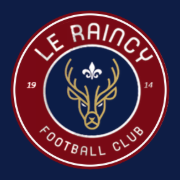
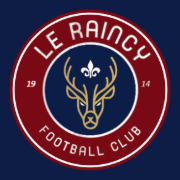
3.27 : blason recentré et bien rond, briefings téléchargeables et importables sur un autre appareil

Changed region(s): [[0.0278, 0.0278, 0.9722, 0.9722], [0.4444, 0.3333, 0.5833, 0.4444]]

diff --git a/js/analyse.js b/js/analyse.js
@@ -201,9 +201,82 @@ const Analyse = (() => {
   }
   function briefingsDialog() {
     const list = briefings();
-    const close = modal({ title: 'Briefings vidéo', noFocus: true, body: list.length ? `<div class="list">${list.map(b => `<div class="list-item bf-item"><span class="li-main"><b>${esc(b.name)}</b><span class="muted">${b.items.length} séquence${b.items.length > 1 ? 's' : ''}</span></span>
-        <button class="btn primary" data-bopen="${b.id}">${I.play}<span>Ouvrir</span></button></div>`).join('')}</div>` : '<p class="muted">Pas encore de briefing. Dans une analyse, touche « Ajouter à un briefing » sous une séquence.</p>',
-      onOpen: r => $$('[data-bopen]', r).forEach(x => x.onclick = () => { close(); location.hash = '#/briefing/' + x.dataset.bopen; }) });
+    const close = modal({ title: 'Briefings vidéo', noFocus: true, body: `${list.length ? `<div class="list">${list.map(b => `<div class="list-item bf-item"><span class="li-main"><b>${esc(b.name)}</b><span class="muted">${b.items.length} séquence${b.items.length > 1 ? 's' : ''}</span></span>
+        <button class="icon-btn" data-bdl="${b.id}" aria-label="Télécharger ${esc(b.name)}" title="Télécharger">${I.download}</button><button class="btn primary" data-bopen="${b.id}">${I.play}<span>Ouvrir</span></button></div>`).join('')}</div>` : '<p class="muted">Pas encore de briefing. Dans une analyse, touche « Ajouter à un briefing » sous une séquence.</p>'}
+        <button class="btn soft wide" data-bimport style="margin-top:12px">${I.upload}<span>Importer un briefing (fichier .raincy-briefing)</span></button>
+        <p class="muted small">Un briefing téléchargé depuis un autre téléphone, une tablette ou un ordinateur se rouvre ici, avec ses vidéos et ses séquences.</p>`,
+      onOpen: r => {
+        $$('[data-bopen]', r).forEach(x => x.onclick = () => { close(); location.hash = '#/briefing/' + x.dataset.bopen; });
+        $$('[data-bdl]', r).forEach(x => x.onclick = () => { const b = briefings().find(y => y.id === x.dataset.bdl); close(); if (b) setTimeout(() => downloadDialog(b), 60); });
+        $('[data-bimport]', r).onclick = () => { close(); pickBriefingFile(); };
+      } });
+  }
+
+  /* ---------- a briefing on another device: one file with the briefing, its sequences and its videos ----------
+     « RAINCYBRIEF1 », the size of the description, the description (JSON), then the videos one after the other.
+     The file is shared like any other (Fichiers, Drive, WhatsApp, AirDrop, clé USB, ordinateur) and imported with « Importer un briefing ». */
+  const MAGIC = 'RAINCYBRIEF1\n';
+  const mo = n => n > 1048576 ? Math.round(n / 1048576) + ' Mo' : Math.max(1, Math.round(n / 1024)) + ' Ko';
+  async function mediaOf(b) {
+    const ids = [...new Set(b.items.map(it => it.mediaId))], out = [];
+    for (const id of ids) { const r = await Media.get(id); if (r) out.push(r); }
+    return out;
+  }
+  async function downloadDialog(b) {
+    const recs = await mediaOf(b), size = recs.reduce((a, r) => a + (r.blob ? r.blob.size : 0), 0), nYT = recs.filter(isYT).length;
+    modal({ title: `Télécharger « ${b.name} »`, noFocus: true, body: `<div class="src-list">
+      <button class="src-btn" data-dl="file">${I.layers}<span><b>Briefing à rouvrir dans l'appli</b><span class="muted small">Un fichier (${mo(size)}) avec les vidéos, les séquences, les commentaires et les joueurs. Enregistre-le dans Fichiers, Google Drive, sur une clé USB ou un ordinateur, puis rouvre-le sur un autre appareil avec « Briefings → Importer un briefing ».${nYT ? ' Les vidéos YouTube restent des liens : il faudra internet pour les voir.' : ''}</span></span></button>
+      <button class="src-btn" data-dl="video">${I.video}<span><b>Vidéo à regarder partout</b><span class="muted small">Un seul fichier vidéo avec les titres et les commentaires, lisible sur n'importe quel téléphone, ordinateur ou télé. Il ne se modifie plus.${nYT ? ' Les séquences YouTube n\'y seront pas.' : ''}</span></span></button></div>`,
+      onOpen: (r, close) => $$('[data-dl]', r).forEach(x => x.onclick = async () => {
+        close();
+        if (x.dataset.dl === 'video') { const items = await resolve(b); return items.length ? exportVideo(items, b.name) : toast('Aucune séquence à mettre dans la vidéo', 'err'); }
+        packBriefing(b, recs);
+      }),
+      actions: [{ label: 'Fermer' }] });
+  }
+  async function packBriefing(b, recs) {
+    const withBlob = recs.filter(r => r.blob);
+    const head = JSON.stringify({ v: 1, name: b.name, at: Date.now(), club: S().club.name || '', items: b.items,
+      media: recs.map(r => ({ id: r.id, ref: r.ref, kind: r.kind, name: r.name, mime: r.mime, url: r.url, host: r.host, thumb: r.thumb, clips: r.clips || [], matchId: r.matchId || null, createdAt: r.createdAt, size: r.blob ? r.blob.size : 0 })) });
+    const headBytes = new TextEncoder().encode(head);
+    const file = new Blob([MAGIC, String(headBytes.length).padStart(12, '0') + '\n', headBytes, ...withBlob.map(r => r.blob)], { type: 'application/octet-stream' });
+    const res = await Exporter.deliver(file, `${b.name.replace(/[^\wÀ-ÿ -]+/g, ' ').replace(/\s+/g, ' ').trim() || 'briefing'}.raincy-briefing`);
+    if (res === 'downloaded') toast('Briefing enregistré dans Téléchargements');
+  }
+  function pickBriefingFile() {
+    const inp = document.createElement('input'); inp.type = 'file';
+    inp.onchange = () => { const f = inp.files && inp.files[0]; if (f) importBriefing(f); };
+    inp.click();
+  }
+  async function importBriefing(file) {
+    const task = UI.bgTask(`Import du briefing « ${file.name} »…`);
+    try {
+      const top = await file.slice(0, MAGIC.length + 13).text();
+      if (!top.startsWith(MAGIC)) throw new Error('Ce fichier n\'est pas un briefing de l\'appli (fichier .raincy-briefing)');
+      const len = parseInt(top.slice(MAGIC.length, MAGIC.length + 12), 10), start = MAGIC.length + 13;
+      const head = JSON.parse(await file.slice(start, start + len).text());
+      let off = start + len, n = 0;
+      for (const m of head.media) {
+        task.step(`Import des vidéos du briefing : ${++n} sur ${head.media.length}`, n / head.media.length);
+        const blob = m.size ? file.slice(off, off + m.size, m.mime || 'video/mp4') : null; off += m.size || 0;
+        const have = await Media.get(m.id);
+        if (have) {
+          // already on this device: only the missing sequences are added
+          const ids = new Set((have.clips || []).map(c => c.id));
+          have.clips = [...(have.clips || []), ...(m.clips || []).filter(c => !ids.has(c.id))];
+          await Media.put(have); continue;
+        }
+        const rec = { id: m.id, ref: m.ref || 'lib', kind: m.kind, name: m.name, mime: m.mime, thumb: m.thumb, clips: m.clips || [], matchId: m.matchId, createdAt: m.createdAt || Date.now() };
+        if (m.kind === 'link') Object.assign(rec, { url: m.url, host: m.host });
+        else if (blob) rec.blob = new Blob([blob], { type: m.mime || 'video/mp4' });
+        await Media.put(rec);
+      }
+      const all = briefings(), name = all.some(x => x.name === head.name) ? head.name + ' (importé)' : head.name;
+      const b = { id: Store.uid(), name, items: head.items || [], at: Date.now() };
+      all.unshift(b); saveBriefings(all);
+      task.done(); toast(`Briefing « ${name} » importé`);
+      location.hash = '#/briefing/' + b.id;
+    } catch (e) { task.done(); toast(e.message && !/JSON/.test(e.message) ? e.message : 'Ce fichier de briefing est abîmé ou incomplet', 'err'); }
   }
   async function briefingPage(root, id) {
     freeUrl();
@@ -211,7 +284,7 @@ const Analyse = (() => {
     if (!b) { root.innerHTML = `<div class="empty"><p>Briefing introuvable sur cet appareil.</p><a class="btn" href="#/bibliotheque">${I.back}<span>Bibliothèque</span></a></div>`; return; }
     const items = await resolve(b);
     root.innerHTML = `<header class="page-head"><div><h1>🎬 ${esc(b.name)}</h1><p class="sub">Briefing vidéo · ${items.length} séquence${items.length > 1 ? 's' : ''} · ${mmss(items.reduce((a, x) => a + x.clip.end - x.clip.start, 0))}</p></div>
-      <div class="head-actions"><button class="btn" data-b="back">${I.back}<span>Retour</span></button><button class="btn" data-b="export" ${items.length ? '' : 'disabled'}>${I.download}<span>Exporter en vidéo</span></button><button class="btn primary" data-b="present" ${items.length ? '' : 'disabled'}>${I.play}<span>Présenter</span></button></div></header>
+      <div class="head-actions"><button class="btn" data-b="back">${I.back}<span>Retour</span></button><button class="btn" data-b="export" ${items.length ? '' : 'disabled'}>${I.download}<span>Télécharger</span></button><button class="btn primary" data-b="present" ${items.length ? '' : 'disabled'}>${I.play}<span>Présenter</span></button></div></header>
       <label class="fld"><span>Nom</span><input id="bfName" value="${esc(b.name)}" maxlength="60"></label>
       <div class="list">${items.map(({ rec, clip }, i) => { const t = tagOf(clip.tag), ps = (clip.players || []).map(pid => Store.get('players', pid)).filter(Boolean);
         return `<div class="list-item bf-row" style="--c:${t[3]}"><span class="bf-n">${i + 1}</span><span class="li-main"><b>${t[1]} ${esc(t[2])}${clip.note ? ' · ' + esc(clip.note) : ''}</b>
@@ -225,7 +298,7 @@ const Analyse = (() => {
       const x = e.target.closest('button'); if (!x) return;
       if (x.dataset.b === 'back') return history.length > 1 ? history.back() : (location.hash = '#/bibliotheque');
       if (x.dataset.b === 'present') return present(items, b.name);
-      if (x.dataset.b === 'export') return exportVideo(items, b.name);
+      if (x.dataset.b === 'export') return downloadDialog(b);
       if (x.dataset.b === 'delete') { if (await confirmBox(`Supprimer le briefing « ${b.name} » ? Les séquences restent dans leurs vidéos.`)) { saveBriefings(briefings().filter(y => y.id !== b.id)); location.hash = '#/bibliotheque'; } return; }
       if (x.dataset.mv) { const [i, d] = x.dataset.mv.split('|').map(Number); [b.items[i], b.items[i + d]] = [b.items[i + d], b.items[i]]; persist(); return briefingPage(root, id); }
       if (x.dataset.rm) { b.items.splice(+x.dataset.rm, 1); persist(); return briefingPage(root, id); }
@@ -360,5 +433,5 @@ const Analyse = (() => {
     return `<section class="card"><div class="row-head"><h2>${I.video}Briefings vidéo</h2><button class="btn soft" data-anbrief>${I.layers}<span>Mes briefings (${list.length})</span></button></div>
       <p class="muted small">Ouvre une vidéo de match puis « Analyser » : marque les actions (but, occasion, perte de balle…), puis rassemble les séquences dans un briefing à présenter ou à envoyer en vidéo.</p></section>`;
   }
-  return { page, briefingPage, briefingsDialog, libraryCard, TAGS, isYT, leave: freeUrl };
+  return { page, briefingPage, briefingsDialog, libraryCard, importBriefing, TAGS, isYT, leave: freeUrl };
 })();

diff --git a/js/help.js b/js/help.js
@@ -2,7 +2,7 @@
    Errors are caught and kept so a coach can attach them to a report. */
 const Help = (() => {
   const { esc, $, $$, toast, modal } = UI;
-  const VERSION = '3.26';
+  const VERSION = '3.27';
   const TOUR_KEY = 'raincy-tour-seen', ERR_KEY = 'raincy-errors';
 
   /* ---------- error log ---------- */
@@ -81,7 +81,7 @@ const Help = (() => {
     president: ['Tableau de bord', ['Les chiffres de la saison pour tout le club, et le détail par catégorie (licenciés, encadrants, présence, résultats).', '« À surveiller » liste ce qui demande une action : catégorie sans éducateur, match sans score, joueurs sans téléphone.', 'Sauvegardes : le serveur copie les données chaque lundi (8 semaines gardées). Tu peux aussi télécharger une copie à garder en lieu sûr, jamais sur GitHub.']],
     licences: ['Licences et cotisations', ['Touche une case pour changer son état : licence, certificat ou questionnaire santé, cotisation, droit à l\'image. Le montant payé s\'écrit à droite.', '« Seulement ceux qui ne sont pas en règle » : la liste de ceux à relancer.', 'Les coachs voient ⚠ dans les convocations pour un joueur dont la licence est en attente ou le certificat à fournir. Les cotisations restent entre responsables.', '« Excel » télécharge le tableau.']],
     analyse: ['Analyse vidéo', ['Lance la vidéo et touche une action (But, Occasion, Perte de balle…) au moment où elle arrive : une séquence est créée, de quelques secondes avant à quelques secondes après (réglable).', 'Sous chaque séquence : ajuste le début et la fin sur l\'image affichée, écris un commentaire, choisis les joueurs concernés (choisis d\'abord le match analysé).', '« Dessiner sur l\'image » ouvre l\'image dans le tableau tactique pour ajouter flèches et joueurs.', '« Ajouter à un briefing » rassemble des séquences de plusieurs vidéos. Les vidéos et les briefings restent sur cet appareil.']],
-    briefing: ['Briefing vidéo', ['« Présenter » passe les séquences en plein écran, avec le titre et le commentaire de chacune (flèches du clavier pour avancer).', '« Exporter en vidéo » crée un seul fichier vidéo à envoyer sur WhatsApp : garde l\'appli ouverte pendant la création, qui dure le temps de la vidéo.', 'Change l\'ordre avec les flèches, retire une séquence avec la croix.']],
+    briefing: ['Briefing vidéo', ['« Présenter » passe les séquences en plein écran, avec le titre et le commentaire de chacune (flèches du clavier pour avancer).', '« Télécharger » → « Vidéo à regarder partout » crée un seul fichier vidéo à envoyer sur WhatsApp : garde l\'appli ouverte pendant la création, qui dure le temps de la vidéo.', '« Télécharger » → « Briefing à rouvrir dans l\'appli » enregistre le briefing avec ses vidéos dans un fichier (Fichiers, Drive, clé USB, ordinateur). Sur l\'autre appareil : Bibliothèque → Mes briefings → « Importer un briefing ».', 'Change l\'ordre avec les flèches, retire une séquence avec la croix.']],
     vestiaires: ['Vestiaires', ['Une colonne par vestiaire (Vestiaire 1, 2, Karaté 1, Karaté 2) pour le jour choisi. Touche une case vide pour attribuer un vestiaire à une catégorie ou à l\'équipe adverse (🆚).', 'Matchs à domicile : « Attribuer » donne un vestiaire à notre équipe et un à l\'adversaire, du rendez-vous jusqu\'après les douches. « Tous les matchs du jour » le fait pour tous.', '« Chaque semaine » garde le même vestiaire pour les entraînements d\'une catégorie jusqu\'à la fin de la saison.', 'Un vestiaire ne peut pas être donné deux fois en même temps. Touche un vestiaire occupé pour le libérer.']],
     encadrement: ['Qui encadre ?', ['Tous les matchs et séances de la semaine, avec leurs encadrants. ⚠ Personne : il manque un encadrant.', '« J\'y serai » t\'ajoute comme encadrant, « Je n\'y serai pas » te retire.', '« Déclarer une absence » : tes vacances ou indisponibilités, visibles par les autres dirigeants. Un responsable peut en déclarer pour n\'importe qui.']],
     entrainements: ['Séances', ['« Séances types du club » : des séances prêtes pour toutes les catégories. « Utiliser » la copie pour ta catégorie et ta date. Pour en créer une : dans une séance réussie, « Enregistrer comme séance type ».', 'Une fiche AssistCoachAI (PDF) : Bibliothèque → Importer → ouvre le PDF → Créer une séance. Chaque exercice est repris avec sa durée, ses consignes et son matériel.', '« Nouvel entraînement » : un thème, une date, une équipe.', 'Tu peux aussi créer une séance d\'un coup à partir d\'un PDF : Bibliothèque → ouvre le PDF → Créer une séance.']],

diff --git a/index.html b/index.html
@@ -13,7 +13,7 @@
 <link rel="manifest" href="manifest.webmanifest">
 <link rel="icon" href="icons/crest.png">
 <link rel="apple-touch-icon" href="icons/icon-180.png">
-<link rel="stylesheet" href="app.css?v=66">
+<link rel="stylesheet" href="app.css?v=67">
 </head>
 <body>
 <div class="shell">
@@ -30,37 +30,37 @@
 <div id="toast" class="toast" role="status" aria-live="polite"></div>
 
 <script src="https://cdn.jsdelivr.net/npm/jspdf@2.5.2/dist/jspdf.umd.min.js" crossorigin="anonymous"></script>
-<script src="js/config.js?v=66"></script>
-<script src="js/icons.js?v=66"></script>
-<script src="js/board.js?v=66"></script>
-<script src="js/store.js?v=66"></script>
-<script src="js/ui.js?v=66"></script>
-<script src="js/clubs.js?v=66"></script>
-<script src="js/exporter.js?v=66"></script>
-<script src="js/auth.js?v=66"></script>
-<script src="js/media.js?v=66"></script>
-<script src="js/ratings.js?v=66"></script>
-<script src="js/library.js?v=66"></script>
-<script src="js/importer.js?v=66"></script>
-<script src="js/help.js?v=66"></script>
-<script src="js/cloud.js?v=66"></script>
-<script src="js/sync.js?v=66"></script>
-<script src="js/planning.js?v=66"></script>
-<script src="js/results.js?v=66"></script>
-<script src="js/messages.js?v=66"></script>
-<script src="js/people.js?v=66"></script>
-<script src="js/templates.js?v=66"></script>
-<script src="js/editor.js?v=66"></script>
-<script src="js/clublife.js?v=66"></script>
-<script src="js/weather.js?v=66"></script>
-<script src="js/notify.js?v=66"></script>
-<script src="js/supporters.js?v=66"></script>
-<script src="js/vestiaires.js?v=66"></script>
-<script src="js/analyse.js?v=66"></script>
-<script src="js/clubadmin.js?v=66"></script>
-<script src="js/parents.js?v=66"></script>
-<script src="js/president.js?v=66"></script>
-<script src="js/views.js?v=66"></script>
-<script src="js/app.js?v=66"></script>
+<script src="js/config.js?v=67"></script>
+<script src="js/icons.js?v=67"></script>
+<script src="js/board.js?v=67"></script>
+<script src="js/store.js?v=67"></script>
+<script src="js/ui.js?v=67"></script>
+<script src="js/clubs.js?v=67"></script>
+<script src="js/exporter.js?v=67"></script>
+<script src="js/auth.js?v=67"></script>
+<script src="js/media.js?v=67"></script>
+<script src="js/ratings.js?v=67"></script>
+<script src="js/library.js?v=67"></script>
+<script src="js/importer.js?v=67"></script>
+<script src="js/help.js?v=67"></script>
+<script src="js/cloud.js?v=67"></script>
+<script src="js/sync.js?v=67"></script>
+<script src="js/planning.js?v=67"></script>
+<script src="js/results.js?v=67"></script>
+<script src="js/messages.js?v=67"></script>
+<script src="js/people.js?v=67"></script>
+<script src="js/templates.js?v=67"></script>
+<script src="js/editor.js?v=67"></script>
+<script src="js/clublife.js?v=67"></script>
+<script src="js/weather.js?v=67"></script>
+<script src="js/notify.js?v=67"></script>
+<script src="js/supporters.js?v=67"></script>
+<script src="js/vestiaires.js?v=67"></script>
+<script src="js/analyse.js?v=67"></script>
+<script src="js/clubadmin.js?v=67"></script>
+<script src="js/parents.js?v=67"></script>
+<script src="js/president.js?v=67"></script>
+<script src="js/views.js?v=67"></script>
+<script src="js/app.js?v=67"></script>
 </body>
 </html>

diff --git a/parents.html b/parents.html
@@ -80,7 +80,7 @@ button, select { font: inherit; }
 <header class="top"><div class="top-in"><img src="icons/crest.png" alt=""><div><p id="club">FA Le Raincy · Espace parents</p><h1 id="team">Chargement…</h1></div></div></header>
 <main id="page"><p class="empty">Chargement des informations de l'équipe…</p></main>
 <div id="toast" class="toast" role="status" aria-live="polite"></div>
-<script src="js/config.js?v=66"></script>
-<script src="js/parents-page.js?v=66"></script>
+<script src="js/config.js?v=67"></script>
+<script src="js/parents-page.js?v=67"></script>
 </body>
 </html>

diff --git a/js/app.js b/js/app.js
@@ -107,7 +107,7 @@ const App = (() => {
   })();
   /* Updates: version.json on the site says which build is online. When it is newer than this one,
      the app empties its offline copy and reloads (an iPhone can keep an old copy open for days). */
-  const BUILD = 66, UPD = 'raincy-update-tried';
+  const BUILD = 67, UPD = 'raincy-update-tried';
   async function onlineBuild() {
     const r = await fetch('version.json?t=' + Date.now(), { cache: 'no-store' });
     return (await r.json()).build || 0;

diff --git a/sw.js b/sw.js
@@ -1,5 +1,5 @@
 /* Service worker: keeps the app working without internet. Bump VERSION after each update. */
-const VERSION = 'raincy-coach-v66';
+const VERSION = 'raincy-coach-v67';
 const JSPDF = 'https://cdn.jsdelivr.net/npm/jspdf@2.5.2/dist/jspdf.umd.min.js';
 const FILES = [
   './', 'index.html', 'app.css', 'manifest.webmanifest',
